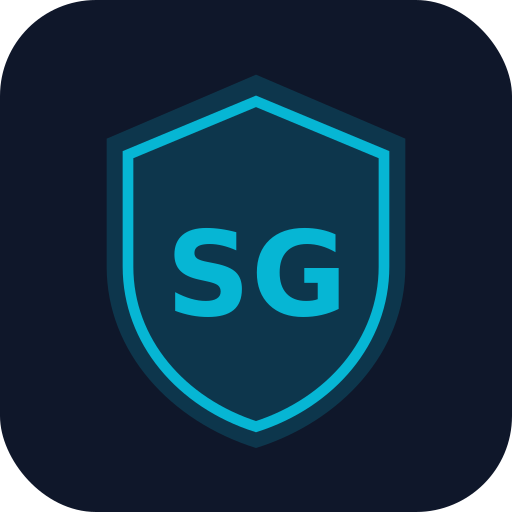
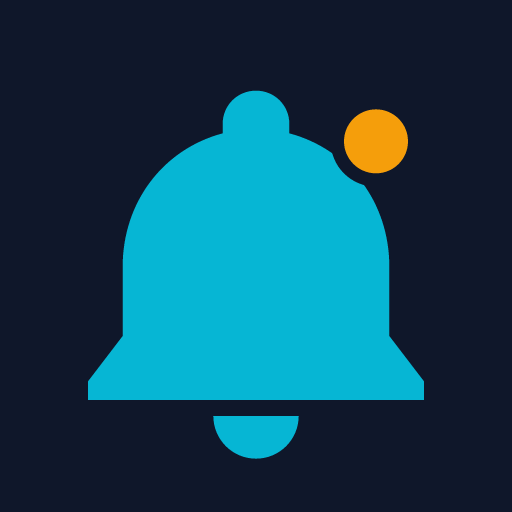
feat: complete RenewBell rebrand for store publishing
- New bell app icon (was an "SG" shield) — SVG + regenerated 192/512/
  apple-touch PNGs; 512 is full-bleed for maskable/launcher masks.
- New og-image.png (the meta tags pointed at a missing file).
- README rewritten: RenewBell branding + accurate feature/privacy/
  pricing claims (old one said "no account required").
- SETUP_EMAIL.md app names, package.json names renamed.

Internal identifiers (subguard_* localStorage keys, deployed domain
URLs) intentionally unchanged — renaming breaks existing user data.

diff --git a/README.md b/README.md
@@ -1,58 +1,44 @@
-# SubGuard — Stop Getting Charged for Things You Forgot About
+# RenewBell — Never Miss a Renewal Again
 
-Free, privacy-first subscription tracker that runs entirely in your browser. No account required.
+Subscription tracker & reminder PWA. Track every recurring charge, get notified before renewals hit your card, and find step-by-step cancellation guides.
+
+**Live app:** https://subguard-five.vercel.app
 
 ## Features
 
-- **Automatic detection** — Connect Gmail or Outlook to scan your inbox for subscriptions
-- **Renewal Radar** — See every upcoming charge before it hits your card, with push notifications
-- **Smart Scanner** — Paste receipt text or upload screenshots; OCR extracts the details
-- **Price Compare** — Check if you're overpaying against fair market rates for 55+ services
-- **Cancellation Center** — Step-by-step cancellation guides for 76+ services
-- **Household Hub** — Track which family members use which subscriptions, split costs
-- **Savings Victory Board** — Celebrate every subscription you cancel
-- **PWA** — Install to your home screen, works offline
+- **Renewal reminders** — push notifications 7/2/1 days before each charge, even when the app is closed
+- **Billing calendar** — every upcoming charge projected across future months
+- **Smart Scanner** — paste receipt text or upload screenshots/PDFs; OCR extracts the details in your browser
+- **Email scanning** (Pro) — connect Gmail or Outlook to auto-detect subscriptions from receipts
+- **Money Leaks Detective** — spot zombie charges, price creep, and forgotten trials
+- **Price Compare** — check against fair market rates for 55+ services
+- **Cancellation Center** — step-by-step cancellation guides for 76+ services
+- **Household Hub** — track who uses what, split costs
+- **PWA** — install to your home screen, works offline
+
+## Pricing
+
+Free tier: up to 5 subscriptions. **Pro: $10 one-time** for 5 years — unlimited subscriptions, email scanning, and all premium features.
 
 ## Tech Stack
 
-- React 18 + Vite 5
-- Tailwind CSS 3
-- Framer Motion (animations)
-- Recharts (charts)
-- Tesseract.js (OCR for receipt images)
-- Express.js backend (optional, for Gmail/Outlook scanning)
-- Google Gmail API + Microsoft Graph API
+- React 18 + Vite + Tailwind CSS + Framer Motion
+- Tesseract.js (client-side OCR) + pdf.js
+- Express + MongoDB Atlas backend (auth, push notifications, subscription sync, Stripe billing)
+- Google OAuth sign-in · Web Push (VAPID) · Stripe Checkout
 
-## Quick Start
+## Development
 
 ```bash
 npm install
-npm run dev
+npm run dev        # frontend on http://localhost:5173
+npm run dev:all    # frontend + API backend together
 ```
 
-Open [http://localhost:5173](http://localhost:5173)
-
-## Email Scanning Setup (Optional)
-
-The email scanning feature requires OAuth credentials. See [SETUP_EMAIL.md](SETUP_EMAIL.md) for step-by-step instructions for Gmail and Outlook.
-
-Once configured:
-
-```bash
-npm run dev:all   # Runs frontend + email backend together
-```
-
-## Keyboard Shortcuts
-
-| Shortcut | Action |
-|----------|--------|
-| `Ctrl/⌘ + N` | New subscription |
-| `Ctrl/⌘ + S` | Smart Scanner |
-| `Ctrl/⌘ + R` | Renewal Radar |
-| `Ctrl/⌘ + H` | Home |
+The backend (`/server`) needs a `.env` — see [SETUP_EMAIL.md](SETUP_EMAIL.md) for the email-scanning OAuth credentials.
 
 ## Privacy
 
-- All data stored in **localStorage** — nothing leaves your browser
-- Email scanning uses OAuth read-only access; email content is never stored
-- No analytics, no tracking, no accounts
+- Sign-in via Google OAuth; subscription data syncs to the server only to power push reminders
+- Email scanning is read-only and stores only detected subscription details (service, price, date) — never email content
+- Full policy: [/privacy](https://subguard-five.vercel.app/privacy) · in-app account deletion under Settings → Danger Zone

diff --git a/SETUP_EMAIL.md b/SETUP_EMAIL.md
@@ -1,6 +1,6 @@
 # Email Scanning Setup
 
-SubGuard can scan your Gmail and Outlook inbox to automatically detect subscriptions.
+RenewBell can scan your Gmail and Outlook inbox to automatically detect subscriptions.
 Both integrations require free OAuth credentials from Google/Microsoft — your emails never leave your device or their servers.
 
 ---
@@ -10,7 +10,7 @@ Both integrations require free OAuth credentials from Google/Microsoft — your 
 ### 1. Create a Google Cloud Project
 
 1. Go to [console.cloud.google.com](https://console.cloud.google.com)
-2. Click **New Project** → name it "SubGuard"
+2. Click **New Project** → name it "RenewBell"
 3. Select the project
 
 ### 2. Enable Gmail API
@@ -22,7 +22,7 @@ Both integrations require free OAuth credentials from Google/Microsoft — your 
 
 1. Go to **APIs & Services → OAuth consent screen**
 2. Choose **External** → Create
-3. Fill in App name: `SubGuard`, User support email, Developer email
+3. Fill in App name: `RenewBell`, User support email, Developer email
 4. Add scope: `https://www.googleapis.com/auth/gmail.readonly`
 5. Add your Gmail address as a **Test user**
 6. Save
@@ -31,7 +31,7 @@ Both integrations require free OAuth credentials from Google/Microsoft — your 
 
 1. Go to **APIs & Services → Credentials → Create Credentials → OAuth client ID**
 2. Application type: **Web application**
-3. Name: `SubGuard`
+3. Name: `RenewBell`
 4. Authorized redirect URIs: `http://localhost:3001/auth/google/callback`
 5. Click **Create** — copy the **Client ID** and **Client Secret**
 
@@ -51,7 +51,7 @@ GOOGLE_REDIRECT_URI=http://localhost:3001/auth/google/callback
 
 1. Go to [portal.azure.com](https://portal.azure.com) → **Azure Active Directory → App registrations**
 2. Click **New registration**
-3. Name: `SubGuard`
+3. Name: `RenewBell`
 4. Supported account types: **Personal Microsoft accounts only**
 5. Redirect URI: Web → `http://localhost:3001/auth/microsoft/callback`
 6. Click **Register** — copy the **Application (client) ID**
@@ -59,7 +59,7 @@ GOOGLE_REDIRECT_URI=http://localhost:3001/auth/google/callback
 ### 2. Create a Client Secret
 
 1. Go to **Certificates & secrets → New client secret**
-2. Description: `subguard`, Expires: 24 months
+2. Description: `renewbell`, Expires: 24 months
 3. Copy the **Value** immediately (shown only once)
 
 ### 3. Add API Permissions
@@ -103,5 +103,5 @@ The frontend will auto-detect whether the backend is running. If it's not runnin
 
 - OAuth tokens are stored **in memory only** — they are cleared when you restart the server.
 - Email content is processed locally — no data is sent to any third-party servers.
-- SubGuard only reads email **metadata** (subject, sender, snippet) — it never reads full email bodies.
+- RenewBell only reads email **metadata** (subject, sender, snippet) — it never reads full email bodies.
 - Scopes requested: `gmail.readonly` (Gmail) and `Mail.Read` (Outlook) — read-only, no write access.
